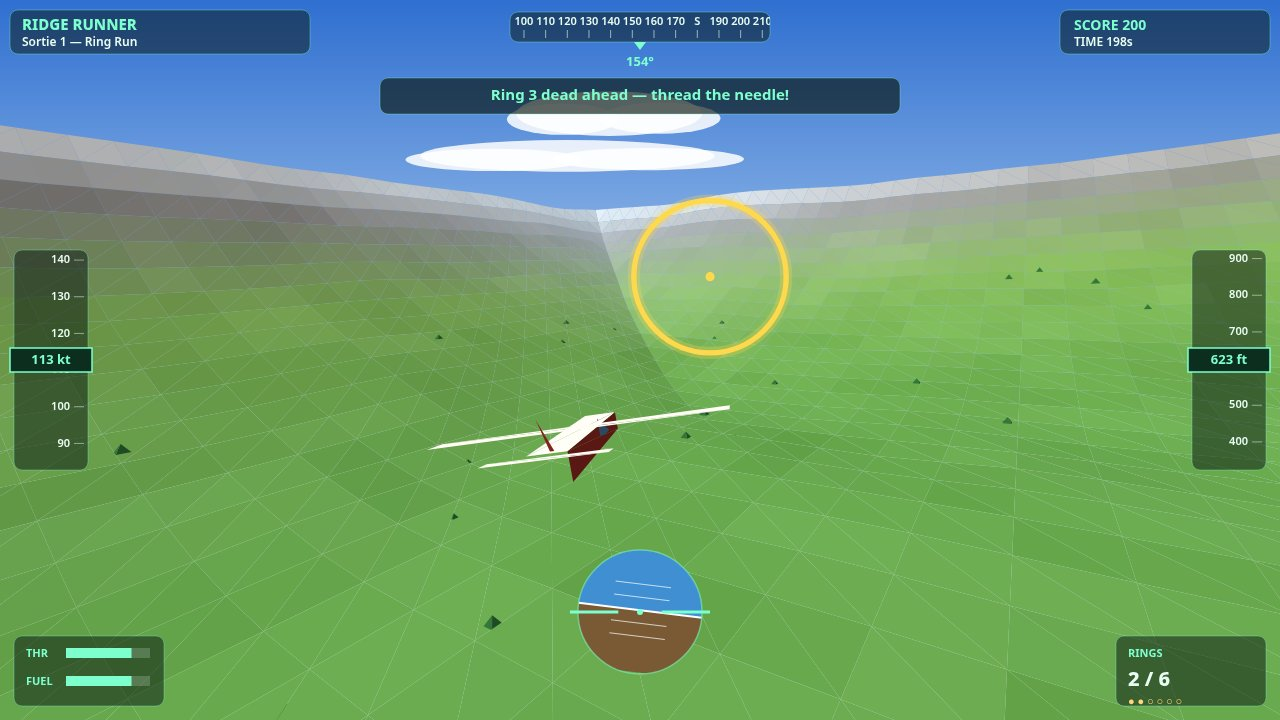
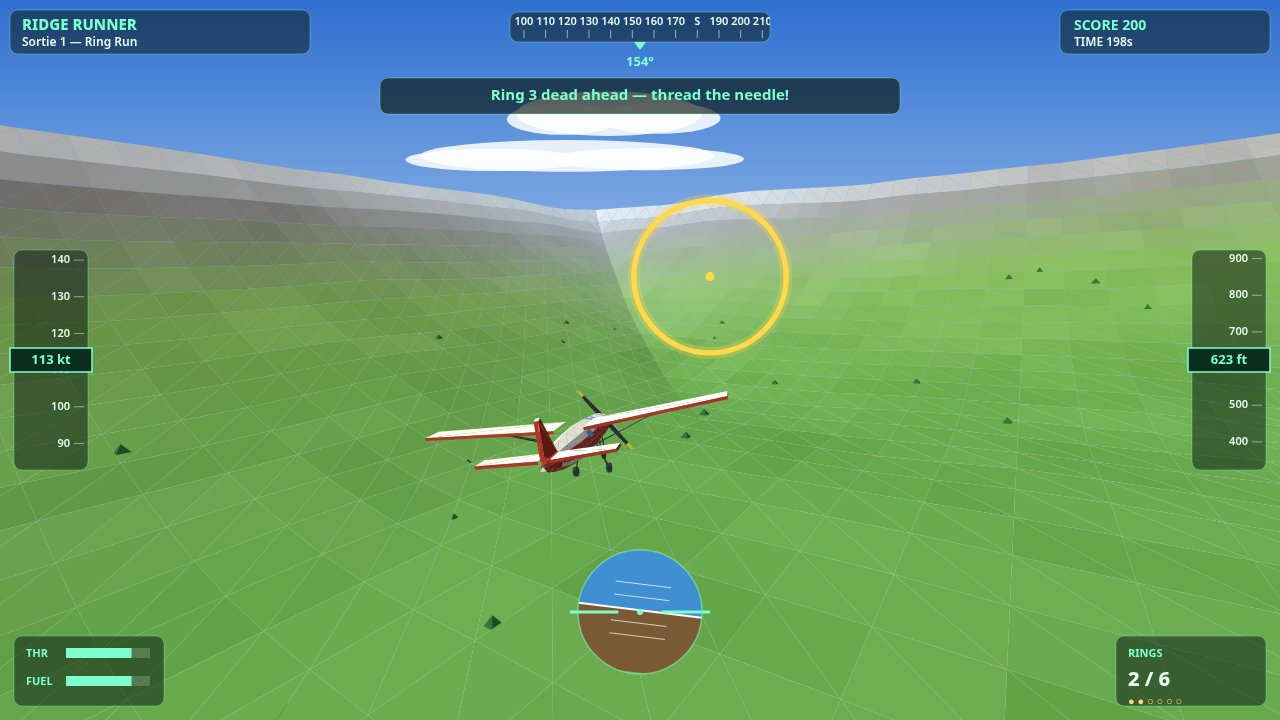
Ridge Runner: realistic Cessna-style Kestrel model
Rebuild the plane as a Cessna-172-style high-wing bush plane: lofted
octagonal fuselage (white, red tail cone + belly + cheatline), glass
windshield + side windows, dihedral wing with struts, tailplane + fin,
tricycle gear with wheels, spinner cone, tapered prop with yellow tips,
nav lights. Flight model, controls and extents unchanged (verified by
headless flight harness); screenshots re-captured from the running game.

Changed region(s): [[0.3125, 0.55, 0.5938, 0.6722]]

diff --git a/game/src/plane.js b/game/src/plane.js
@@ -1,7 +1,9 @@
 // Ridge Runner — the Kestrel K-2 bush plane.
 // Flight model (arcade, but honest): lift needs speed, banking turns the nose,
 // the wing stalls below minimum speed, and the ground is unforgiving. The
-// model itself is a small set of shaded triangles built from the same palette.
+// model is a Cessna-172-style high-wing plane built from shaded triangles:
+// a lofted rounded fuselage, dihedral wing with struts, tailplane + fin,
+// and fixed tricycle gear.
 
 function makePlane(terrain) {
   const P = RR.PLANE;
@@ -110,48 +112,215 @@ function makePlane(terrain) {
   }
 
   // ---- Aircraft model: triangles in plane-local space ----------------------
-  // Forward is +Z, up is +Y, right is +X. Built once, transformed per frame.
-  const RED = [200, 55, 45], WHITE = [244, 241, 234], DARK = [44, 47, 54], GLASS = [90, 160, 210];
+  // Forward is +Z, up is +Y, right is +X. A Cessna-172-style high-wing bush
+  // plane: the fuselage is a loft of octagonal cross-sections (rounded, not
+  // a box), with a tapered nose + spinner cone, a high wing with dihedral
+  // and struts, a tailplane + fin, and fixed tricycle gear. Built once,
+  // shaded flat by the sun, transformed per frame. Every triangle is wound
+  // so its normal points outward — the renderer culls back faces.
+  const RED = [200, 55, 45], WHITE = [244, 241, 234], DARK = [44, 47, 54],
+    GLASS = [90, 160, 210], YELLOW = [238, 198, 64], GREEN = [46, 190, 110];
   const MODEL = (function buildModel() {
     const t = [];
     function tri(a, b, c, col) { t.push(a[0], a[1], a[2], b[0], b[1], b[2], c[0], c[1], c[2], col[0], col[1], col[2]); }
     function quad(a, b, c, d, col) { tri(a, b, c, col); tri(a, c, d, col); }
-    // Fuselage: a tapered box, nose at +Z.
-    const nose = [0, 0.15, 3.4], tail = [0, 0.35, -2.6];
-    quad([-0.55, -0.25, -2.6], [0.55, -0.25, -2.6], [0.55, 0.55, -2.6], [-0.55, 0.55, -2.6], RED);   // tail face
-    quad([-0.55, -0.25, 3.0], [0.55, -0.25, 3.0], [0.55, 0.35, 3.0], [-0.55, 0.35, 3.0], WHITE);     // nose face
-    quad([-0.55, -0.25, -2.6], [-0.55, -0.25, 3.0], [-0.55, 0.35, 3.0], [-0.55, 0.55, -2.6], RED);    // left side
-    quad([0.55, -0.25, 3.0], [0.55, -0.25, -2.6], [0.55, 0.55, -2.6], [0.55, 0.35, 3.0], RED);        // right side
-    quad([-0.55, 0.55, -2.6], [-0.55, 0.35, 3.0], [0.55, 0.35, 3.0], [0.55, 0.55, -2.6], WHITE);      // top
-    quad([-0.55, -0.25, 3.0], [-0.55, -0.25, -2.6], [0.55, -0.25, -2.6], [0.55, -0.25, 3.0], DARK);   // belly
-    // Windshield + side windows (glass band).
-    quad([-0.5, 0.36, 1.4], [0.5, 0.36, 1.4], [0.42, 0.72, 0.7], [-0.42, 0.72, 0.7], GLASS);
-    quad([-0.55, 0.0, 0.6], [-0.55, 0.0, 1.8], [-0.5, 0.62, 1.55], [-0.5, 0.62, 0.75], GLASS);
-    quad([0.55, 0.0, 1.8], [0.55, 0.0, 0.6], [0.5, 0.62, 0.75], [0.5, 0.62, 1.55], GLASS);
-    // Main wing (high wing) + struts.
-    quad([-4.6, 0.55, 0.4], [4.6, 0.55, 0.4], [4.6, 0.62, -0.5], [-4.6, 0.62, -0.5], WHITE);
-    quad([-4.6, 0.62, -0.5], [4.6, 0.62, -0.5], [4.6, 0.55, 0.4], [-4.6, 0.55, 0.4], RED);
-    tri([-0.5, 0.55, 0.3], [-0.5, -0.2, 0.9], [-0.42, -0.2, 0.9], DARK);
-    tri([0.5, 0.55, 0.3], [0.42, -0.2, 0.9], [0.5, -0.2, 0.9], DARK);
-    // Tailplane + fin.
-    quad([-1.7, 0.45, -2.5], [1.7, 0.45, -2.5], [1.7, 0.5, -3.0], [-1.7, 0.5, -3.0], WHITE);
-    quad([-0.06, 0.5, -2.2], [0.06, 0.5, -2.2], [0.06, 1.5, -2.9], [-0.06, 1.5, -2.9], RED);
-    tri([0, 1.5, -2.9], [0.06, 0.5, -2.2], [-0.06, 0.5, -2.2], RED);
-    // Landing gear: two wheels.
-    tri([-0.5, -0.25, 1.2], [-0.5, -0.85, 1.2], [-0.42, -0.85, 1.2], DARK);
-    tri([0.5, -0.25, 1.2], [0.42, -0.85, 1.2], [0.5, -0.85, 1.2], DARK);
-    // Propeller: two blades, spun by propAngle at draw time (kept separate).
+    // Same quad mirrored across the X axis. Mirroring flips the winding, so
+    // the vertex order is reversed to keep the normal pointing outward.
+    function mirrorQuad(a, b, c, d, col) {
+      const m = (p) => [-p[0], p[1], p[2]];
+      quad(m(a), m(d), m(c), m(b), col);
+    }
+    function mirrorTri(a, b, c, col) {
+      const m = (p) => [-p[0], p[1], p[2]];
+      tri(m(a), m(c), m(b), col);
+    }
+    // One quad on both sides (a face on the right + its mirror on the left).
+    function bothSides(a, b, c, d, col) { quad(a, b, c, d, col); mirrorQuad(a, b, c, d, col); }
+    // A thin plate visible from both faces (struts, gear legs).
+    function doubleQuad(a, b, c, d, col) { quad(a, b, c, d, col); quad(a, d, c, b, col); }
+    function plateBoth(a, b, c, d, col) {
+      doubleQuad(a, b, c, d, col);
+      const m = (p) => [-p[0], p[1], p[2]];
+      doubleQuad(m(a), m(b), m(c), m(d), col);
+    }
+
+    // ---- Fuselage loft ------------------------------------------------------
+    // Rings from tail tip to nose. 8 points per ring, theta from +X toward
+    // +Y (counter-clockwise seen from ahead), so the loft quads wind outward.
+    const RINGS = [
+      { z: -3.00, cy: 0.32, rx: 0.05, ry: 0.08 },
+      { z: -2.70, cy: 0.30, rx: 0.16, ry: 0.20 },
+      { z: -2.20, cy: 0.26, rx: 0.26, ry: 0.30 },
+      { z: -1.60, cy: 0.22, rx: 0.36, ry: 0.40 },
+      { z: -0.90, cy: 0.18, rx: 0.44, ry: 0.47 },
+      { z: -0.20, cy: 0.16, rx: 0.48, ry: 0.50 },
+      { z:  0.60, cy: 0.15, rx: 0.49, ry: 0.51 },
+      { z:  1.10, cy: 0.14, rx: 0.47, ry: 0.48 },
+      { z:  1.70, cy: 0.12, rx: 0.44, ry: 0.44 },
+      { z:  2.40, cy: 0.10, rx: 0.40, ry: 0.40 },
+      { z:  2.95, cy: 0.08, rx: 0.32, ry: 0.32 },
+      { z:  3.30, cy: 0.06, rx: 0.18, ry: 0.18 },
+    ];
+    const SIDES = 8;
+    const LOFT = RINGS.map((r) => {
+      const pts = [];
+      for (let k = 0; k < SIDES; k++) {
+        const th = (k / SIDES) * Math.PI * 2;
+        pts.push([r.rx * Math.cos(th), r.cy + r.ry * Math.sin(th), r.z]);
+      }
+      return pts;
+    });
+    // Segment i (between ring i and i+1), side k (theta k*45..(k+1)*45 deg):
+    // red tail cone, red belly (sides 5 and 6), otherwise white.
+    for (let i = 0; i < LOFT.length - 1; i++) {
+      const a = LOFT[i], b = LOFT[i + 1];
+      for (let k = 0; k < SIDES; k++) {
+        const k2 = (k + 1) % SIDES;
+        const col = (i <= 1 || k === 5 || k === 6) ? RED : WHITE;
+        quad(a[k], a[k2], b[k2], b[k], col);
+      }
+    }
+    // Tail cap: fan to the centre of the tail-tip ring.
+    const tailC = [0, RINGS[0].cy, RINGS[0].z];
+    for (let k = 0; k < SIDES; k++) {
+      const k2 = (k + 1) % SIDES;
+      tri(tailC, LOFT[0][k2], LOFT[0][k], RED);
+    }
+    // Spinner cone: fan from the nose tip to the last ring.
+    const noseTip = [0, RINGS[RINGS.length - 1].cy, 3.56];
+    const noseRing = LOFT[LOFT.length - 1];
+    for (let k = 0; k < SIDES; k++) {
+      const k2 = (k + 1) % SIDES;
+      tri(noseTip, noseRing[k], noseRing[k2], RED);
+    }
+
+    // Point on the fuselage surface at height z, angle theta (radians from
+    // +X toward +Y), pushed `out` metres along the radial direction.
+    function surfacePoint(z, theta, out) {
+      let i = 0;
+      while (i < RINGS.length - 2 && RINGS[i + 1].z < z) i++;
+      const a = RINGS[i], b = RINGS[i + 1];
+      const f = clamp((z - a.z) / (b.z - a.z), 0, 1);
+      const cy = lerp(a.cy, b.cy, f), rx = lerp(a.rx, b.rx, f), ry = lerp(a.ry, b.ry, f);
+      const c = Math.cos(theta), s = Math.sin(theta);
+      return [(rx + out) * c, cy + (ry + out) * s, z];
+    }
+
+    // Red cheatline: a thin band hugging each fuselage side.
+    function cheatline(centerTheta) {
+      const ths = [centerTheta - 0.38, centerTheta, centerTheta + 0.38];
+      const zs = [-2.20, -1.60, -0.90, -0.20, 0.60, 1.10, 1.70, 2.40];
+      const secs = zs.map((z) => ths.map((th) => surfacePoint(z, th, 0.014)));
+      for (let i = 0; i < secs.length - 1; i++) {
+        for (let k = 0; k < ths.length - 1; k++) {
+          quad(secs[i][k], secs[i][k + 1], secs[i + 1][k + 1], secs[i + 1][k], RED);
+        }
+      }
+    }
+    cheatline(0);
+    cheatline(Math.PI);
+
+    // Windshield: glass strip across the top of the cabin nose.
+    (function windshield() {
+      const ths = [0.96, Math.PI / 2, Math.PI - 0.96];
+      const zs = [0.95, 1.25, 1.60];
+      const secs = zs.map((z) => ths.map((th) => surfacePoint(z, th, 0.015)));
+      for (let i = 0; i < secs.length - 1; i++) {
+        for (let k = 0; k < ths.length - 1; k++) {
+          quad(secs[i][k], secs[i][k + 1], secs[i + 1][k + 1], secs[i + 1][k], GLASS);
+        }
+      }
+    })();
+
+    // Side windows, hugging the cabin facets (front pair + rear pair).
+    function sideWindow(z0, z1, th0, th1) {
+      const a = surfacePoint(z0, th0, 0.015), b = surfacePoint(z0, th1, 0.015);
+      const c = surfacePoint(z1, th1, 0.015), d = surfacePoint(z1, th0, 0.015);
+      bothSides(a, b, c, d, GLASS);
+    }
+    sideWindow(0.30, 1.05, 0.21, 0.66);
+    sideWindow(-0.55, 0.15, 0.21, 0.66);
+
+    // ---- Main wing (high wing, slight dihedral) ---------------------------
+    // Right half-wing is written out; the left half mirrors it. Top white,
+    // bottom red, leading edge white, trailing edge red, tip red.
+    bothSides([0.45, 0.70, 0.55], [4.6, 0.98, 0.35], [4.6, 0.98, -0.45], [0.45, 0.70, -0.65], WHITE);
+    bothSides([0.45, 0.61, -0.65], [4.6, 0.89, -0.45], [4.6, 0.89, 0.35], [0.45, 0.61, 0.55], RED);
+    bothSides([0.45, 0.61, 0.55], [4.6, 0.89, 0.35], [4.6, 0.98, 0.35], [0.45, 0.70, 0.55], WHITE);
+    bothSides([0.45, 0.70, -0.65], [4.6, 0.98, -0.45], [4.6, 0.89, -0.45], [0.45, 0.61, -0.65], RED);
+    bothSides([4.6, 0.89, 0.35], [4.6, 0.89, -0.45], [4.6, 0.98, -0.45], [4.6, 0.98, 0.35], RED);
+    // Wing struts: thin plates from the lower fuselage to the wing.
+    plateBoth([0.32, -0.12, 0.55], [2.62, 0.76, 0.18], [2.62, 0.76, -0.02], [0.32, -0.12, 0.28], DARK);
+
+    // ---- Tail ----------------------------------------------------------------
+    // Horizontal stabilizer (same construction as the wing, smaller).
+    bothSides([0.15, 0.46, -2.15], [1.85, 0.52, -2.30], [1.85, 0.52, -2.85], [0.15, 0.46, -2.90], WHITE);
+    bothSides([0.15, 0.38, -2.90], [1.85, 0.44, -2.85], [1.85, 0.44, -2.30], [0.15, 0.38, -2.15], RED);
+    bothSides([0.15, 0.38, -2.15], [1.85, 0.44, -2.30], [1.85, 0.52, -2.30], [0.15, 0.46, -2.15], WHITE);
+    bothSides([0.15, 0.46, -2.90], [1.85, 0.52, -2.85], [1.85, 0.44, -2.85], [0.15, 0.38, -2.90], RED);
+    bothSides([1.85, 0.44, -2.30], [1.85, 0.44, -2.85], [1.85, 0.52, -2.85], [1.85, 0.52, -2.30], RED);
+    // Vertical fin: swept plate, red with a white tip.
+    bothSides([0.06, 0.45, -2.00], [0.06, 0.45, -2.95], [0.06, 1.45, -2.90], [0.06, 1.50, -2.75], RED);
+    quad([0.06, 1.50, -2.75], [-0.06, 1.50, -2.75], [-0.06, 0.45, -2.00], [0.06, 0.45, -2.00], RED);
+    quad([-0.06, 0.45, -2.95], [-0.06, 1.45, -2.90], [0.06, 1.45, -2.90], [0.06, 0.45, -2.95], RED);
+    quad([0.06, 1.45, -2.90], [-0.06, 1.45, -2.90], [-0.06, 1.50, -2.75], [0.06, 1.50, -2.75], WHITE);
+
+    // ---- Fixed tricycle gear --------------------------------------------------
+    // Wheels: hexagonal tubes (axis along X), dark.
+    function wheel(cx, cy, cz, r, w) {
+      const secs = [];
+      for (const dx of [-w / 2, w / 2]) {
+        const ring = [];
+        for (let k = 0; k < 6; k++) {
+          const ph = (k / 6) * Math.PI * 2;
+          ring.push([cx + dx, cy + r * Math.cos(ph), cz + r * Math.sin(ph)]);
+        }
+        secs.push(ring);
+      }
+      for (let k = 0; k < 6; k++) {
+        const k2 = (k + 1) % 6;
+        quad(secs[0][k], secs[0][k2], secs[1][k2], secs[1][k], DARK);
+      }
+      const c0 = [cx - w / 2, cy, cz], c1 = [cx + w / 2, cy, cz];
+      for (let k = 0; k < 6; k++) {
+        const k2 = (k + 1) % 6;
+        tri(c1, secs[1][k], secs[1][k2], DARK);
+        tri(c0, secs[0][k2], secs[0][k], DARK);
+      }
+    }
+    wheel(0.55, -1.02, 0.95, 0.16, 0.12);
+    wheel(-0.55, -1.02, 0.95, 0.16, 0.12);
+    wheel(0, -1.02, 2.55, 0.13, 0.10);
+    // Main legs: splayed struts from the belly to the main axles.
+    plateBoth([0.30, -0.25, 1.02], [0.55, -1.02, 1.02], [0.55, -1.02, 0.88], [0.30, -0.25, 0.88], DARK);
+    // Nose leg: vertical strut to the nose wheel.
+    plateBoth([0.06, -0.30, 2.62], [0.06, -1.02, 2.62], [0.06, -1.02, 2.48], [0.06, -0.30, 2.48], DARK);
+
+    // ---- Nav lights ------------------------------------------------------------
+    // Green right tip, red left tip, white tail (proud of the surface).
+    tri([4.62, 0.93, 0.30], [4.62, 0.93, -0.40], [4.62, 0.99, -0.05], GREEN);
+    mirrorTri([4.62, 0.93, 0.30], [4.62, 0.93, -0.40], [4.62, 0.99, -0.05], RED);
+    tri([0.00, 0.34, -3.02], [0.09, 0.22, -3.02], [-0.09, 0.22, -3.02], WHITE);
+
     return new Float32Array(t);
   })();
 
-  // Propeller blades (drawn rotated around the nose axis).
+  // Propeller blades (drawn rotated around the nose axis). Tapered blades
+  // with yellow tips, double-sided so they read from the chase view too.
   const PROP = (function buildProp() {
     const t = [];
     function tri(a, b, c, col) { t.push(a[0], a[1], a[2], b[0], b[1], b[2], c[0], c[1], c[2], col[0], col[1], col[2]); }
-    tri([-0.08, 0.2, 3.55], [0.08, 0.2, 3.55], [0.08, 1.5, 3.55], DARK);
-    tri([-0.08, 0.2, 3.55], [0.08, 1.5, 3.55], [-0.08, 1.5, 3.55], DARK);
-    tri([-0.08, -1.5, 3.55], [0.08, -1.5, 3.55], [0.08, -0.2, 3.55], DARK);
-    tri([-0.08, -1.5, 3.55], [0.08, -0.2, 3.55], [-0.08, -0.2, 3.55], DARK);
+    function quad(a, b, c, d, col) { tri(a, b, c, col); tri(a, c, d, col); }
+    function doubleQuad(a, b, c, d, col) { quad(a, b, c, d, col); quad(a, d, c, b, col); }
+    // One blade: dark shank with a yellow tip. sign +1: blade up; -1: down.
+    function blade(sign) {
+      const z = 3.56;
+      const y0 = sign * 0.10, y1 = sign * 1.18, y2 = sign * 1.45;
+      doubleQuad([-0.09, y0, z], [0.09, y0, z], [0.06, y1, z], [-0.06, y1, z], DARK);
+      doubleQuad([-0.06, y1, z], [0.06, y1, z], [0.05, y2, z], [-0.05, y2, z], YELLOW);
+    }
+    blade(1);
+    blade(-1);
     return new Float32Array(t);
   })();
 
